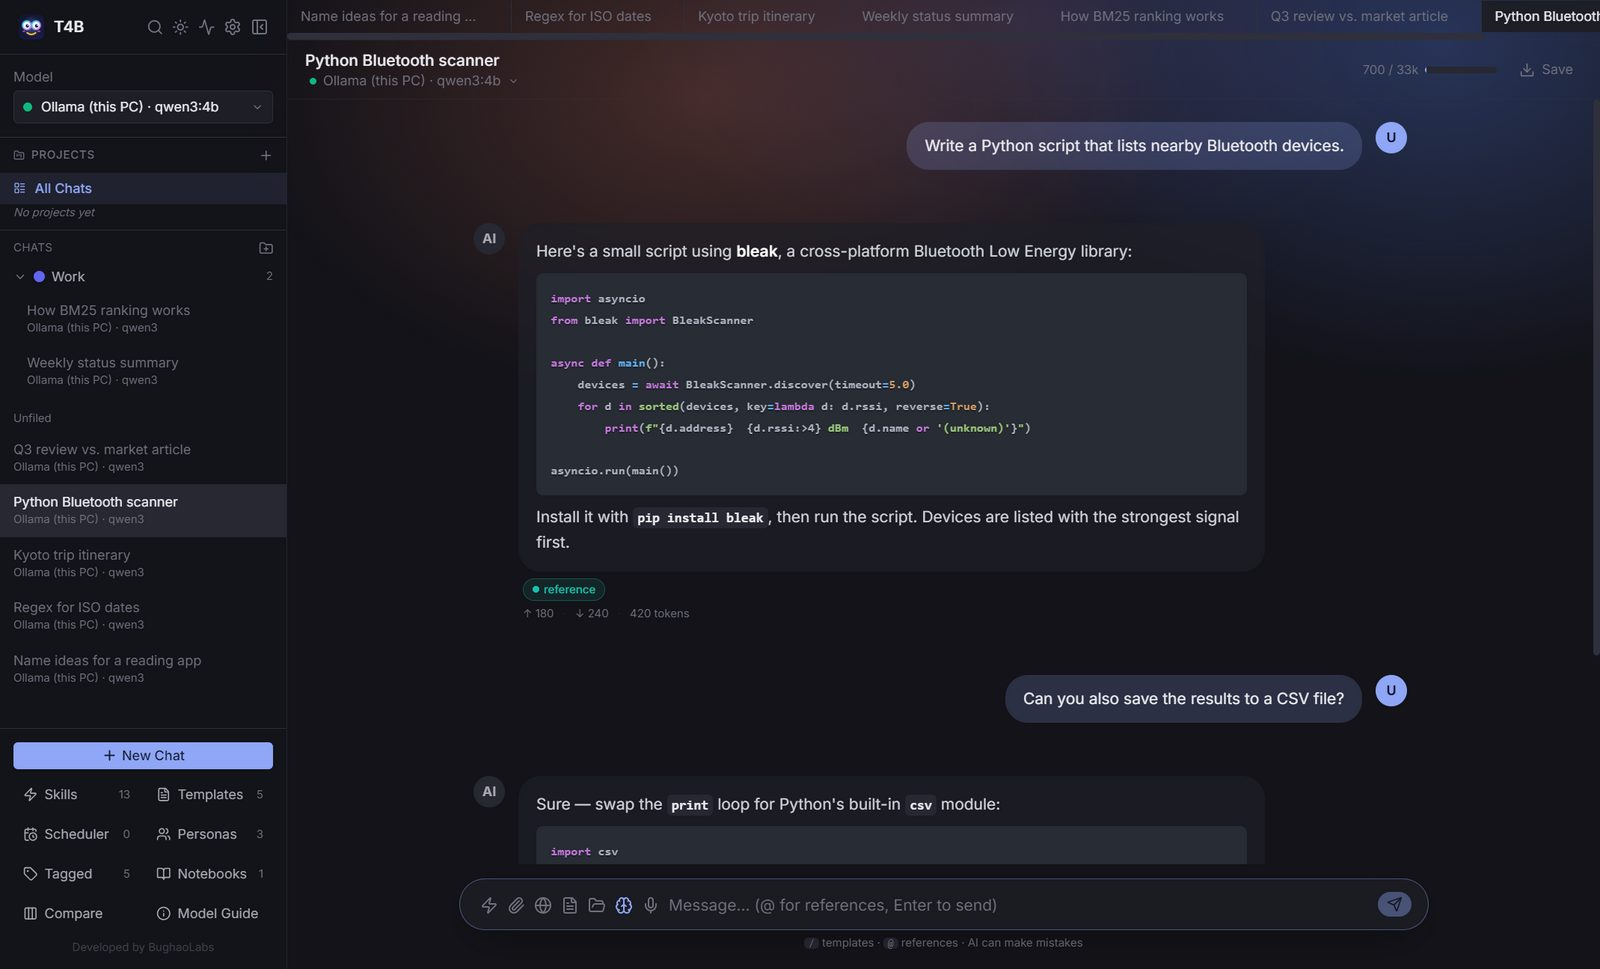
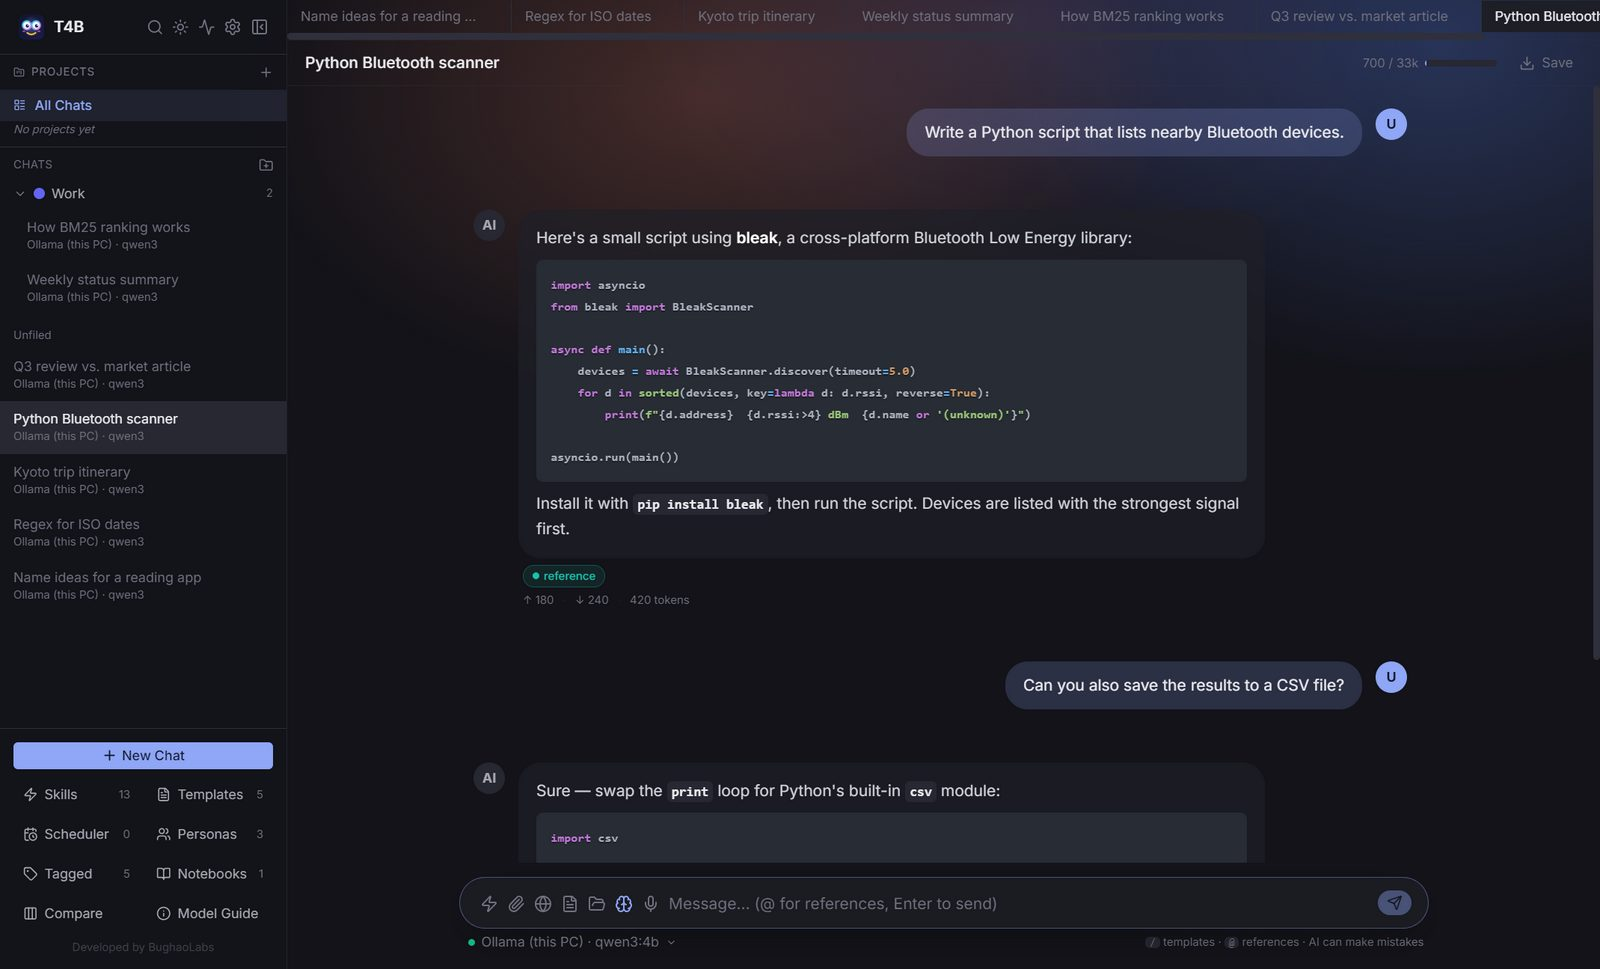
docs: model picker under the chat box; refreshed screenshots

diff --git a/README.md b/README.md
@@ -104,13 +104,13 @@ Each connection is tested before you save it: you see the models it found and ch
    ollama pull qwen3:4b
    ```
    Small models (1–4B parameters) are fast. Larger ones (8B and up) give better answers but need a good GPU or plenty of RAM.
-3. In T4B, choose **Run free on this PC** (or **Find on this computer** in Settings → Connections). T4B finds Ollama and adds it, and your models appear in the **Model** picker. A running Ollama or LM Studio is usually found automatically when T4B starts.
+3. In T4B, choose **Run free on this PC** (or **Find on this computer** in Settings → Connections). T4B finds Ollama and adds it, and your models appear in the model picker under the chat box. A running Ollama or LM Studio is usually found automatically when T4B starts.
 
 ### Cloud models
 
 1. Get an API key from the service: OpenAI, Anthropic, OpenRouter, Google Gemini, Groq, Mistral, DeepSeek, xAI or Together AI, or AWS credentials for Bedrock.
 2. **Add connection → Cloud accounts**, choose the service and paste the key. For the ready-made services the address is filled in for you. Keys are stored encrypted on your computer.
-3. Click **Test connection**, choose which models to show, then **Add connection**. Pick a model in the sidebar.
+3. Click **Test connection**, choose which models to show, then **Add connection**. Pick a model from the model picker under the chat box.
 
 ### A company server
 
@@ -124,11 +124,11 @@ IT teams can set this up once and use **Export (without keys)**; colleagues use 
 
 ## 4. Your first chat
 
-1. Pick a model in the sidebar's **Model** picker. Models are grouped by connection; star your favourites and use the pin to make one the default for new chats. You can also switch a chat's model from its header.
+1. Pick a model with the **model picker under the chat box** (or on the start screen when no chat is open). Models are grouped by connection; star your favourites and use the pin to make one the default for new chats. You can switch a chat's model at any time the same way.
 2. Click **New Chat**.
 3. Type your question and press **Enter**. Use **Shift+Enter** for a new line.
 
-![The model picker, with models grouped by connection](docs/images/model-picker.jpg)
+![The model picker under the chat box, open and showing models grouped by connection](docs/images/model-picker.jpg)
 
 Under the message box:
 
@@ -223,7 +223,7 @@ You can also connect **MCP servers** (Settings → MCP Servers) for services suc
 
 | Problem | Try this |
 |---|---|
-| "No models found" | Check that Ollama (or your server) is running, then click the refresh icon next to the connection in the model picker. Check **Status** to see which servers respond |
+| "No models found" | Check that Ollama (or your server) is running, then open the model picker under the chat box and click the refresh icon next to the connection. Check **Status** to see which servers respond |
 | Local model is slow | Pick a smaller model, turn off 🧠 thinking, and check **Status** to see whether the model is on the GPU or the CPU |
 | The model doesn't use a tool | Small models sometimes ignore tools. Try a larger model, set 🔧 to **On**, or name the tool ("search the web for…") |
 | Web search says "no service is set up" | Choose Brave, Tavily or SearXNG in **Settings → Tools** and click **Test** |
